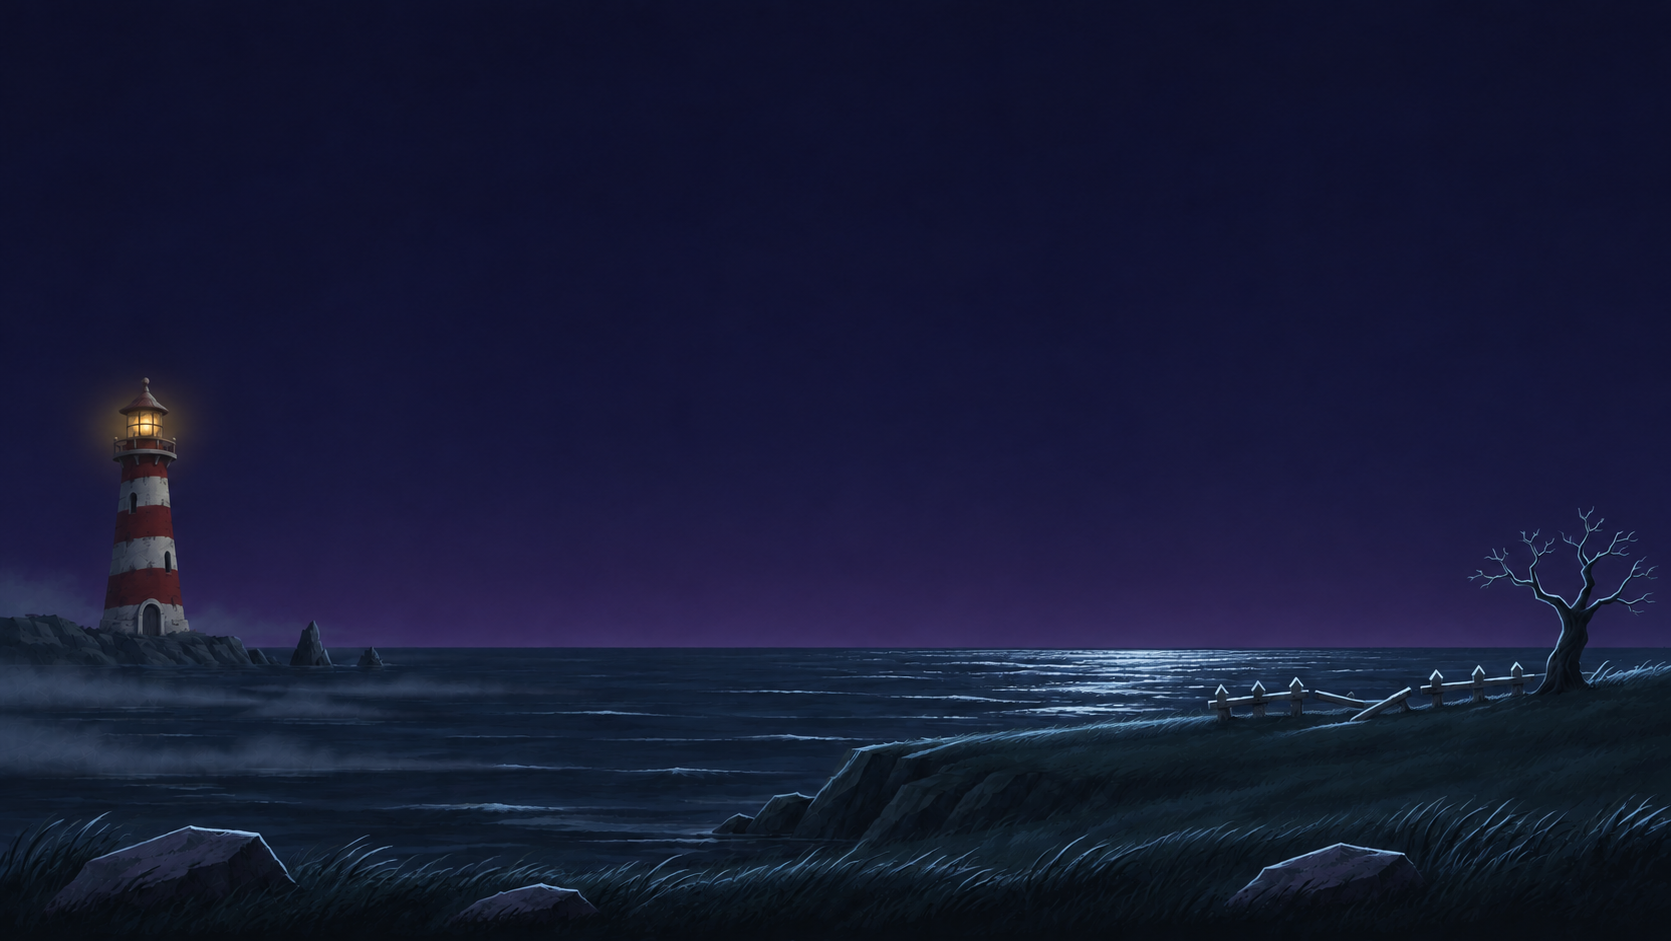
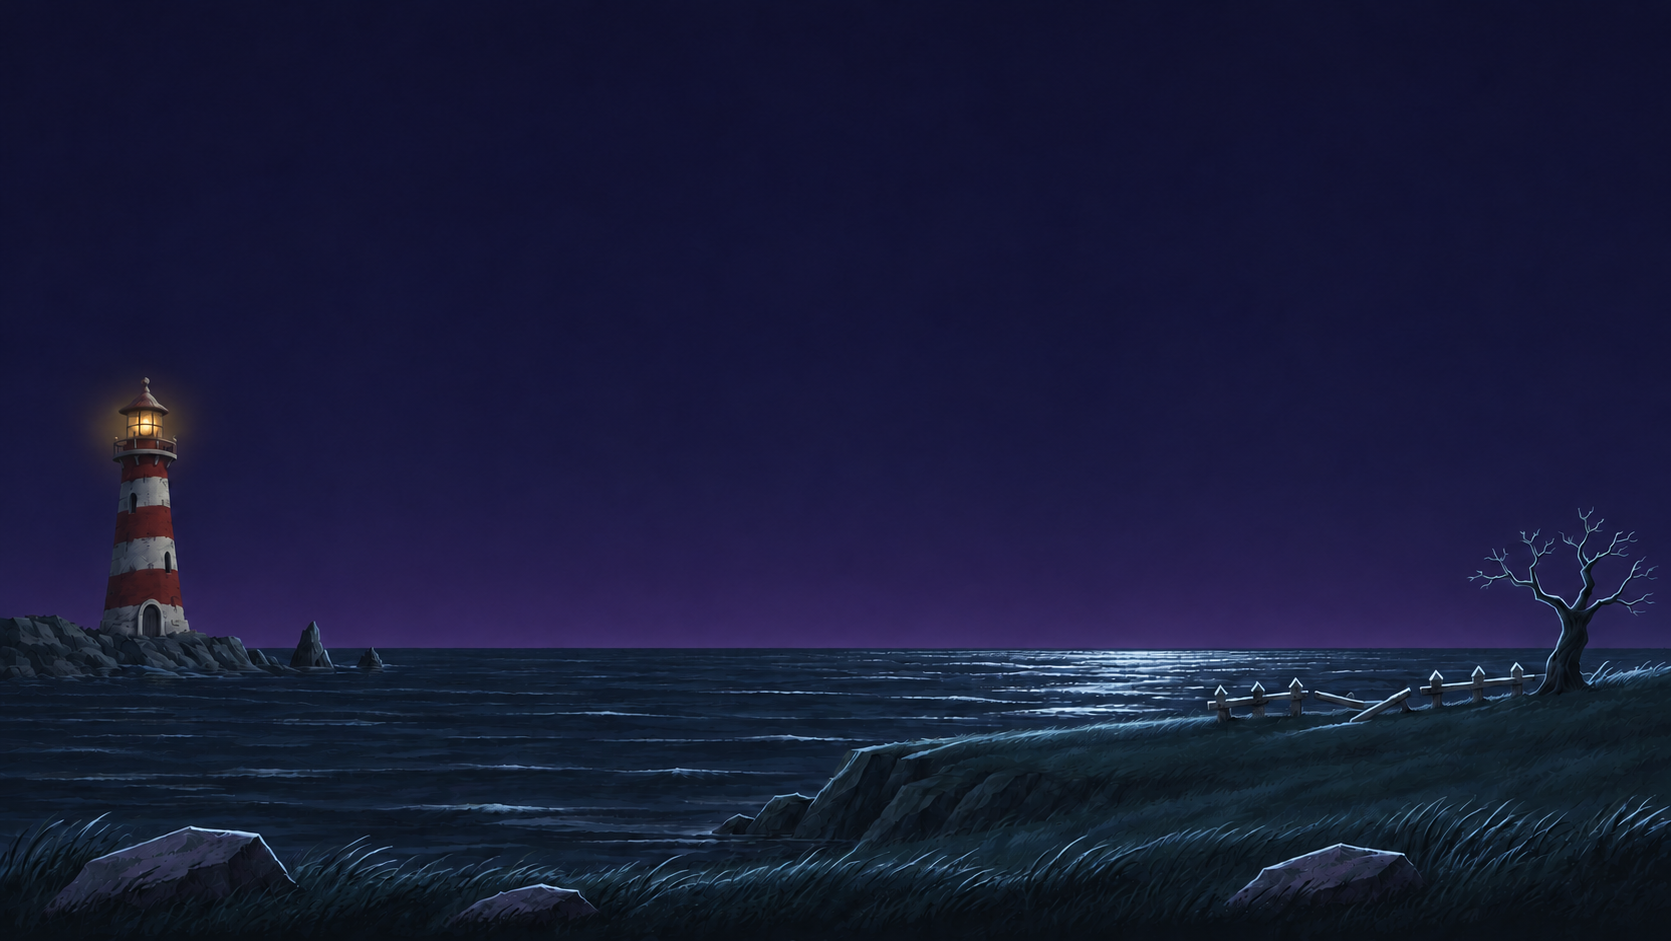
Launcher: drifting clouds and fog, and the lighthouse's turning light
- background.png without its painted fog; the fog and clouds are now sprites that drift slowly and
  wrap round the window (launcher/art: cloud1-3, fog1-3), replacing the drawn clouds. Clouds drift
  left high in the sky; two fog banks on the sea behind the house and one over the ground in front
  of it, breathing a little. Sizes, places and speeds are shares of the window size.
- The front fog is clipped out of the signs' outlines, so the planks stay clear. It is drawn in the
  scene, so it never takes the mouse.
- The lighthouse: a light cone (beam.png) from the lamp that turns once every 9 s, its length
  following the angle, mirrored to the left and dimmer when it points away; and a flare
  (flare.png) on the lamp that grows when the light faces the viewer. Both are behind the house
  and the front fog.
- Layer order: background, stars and moon, clouds, back fog, light, windows and house, lantern
  glow, front fog, signs and title.
- Scaled sprites are cached per window size and scale. With Windows' animation effects off (and in
  --shots) everything stands at one still moment.
- tools/launcher-art/sprites.py cuts the cloud and fog sprites from their sheets; beam.py makes the
  beam and flare.

diff --git a/launcher/MansionScene.cs b/launcher/MansionScene.cs
@@ -14,11 +14,11 @@ using Avalonia.Threading;
 
 namespace FrightWorks;
 
-// The launcher's main screen: a painted night coast (background.png) with stars, a moon, clouds and lightning, the
-// mansion (launcher/art, made by tools/launcher-art/make_mansion_v2.py) whose windows light up, draw their curtains
-// and show the odd silhouette, and the five signs that are the menu. The windows are holes in mansion.png: their
-// insides are drawn first, then the house on top. The signs are drawn over the ones painted in the picture
-// (mansion.json holds both outlines).
+// The launcher's main screen: a painted night coast (background.png) with stars, a moon, drifting clouds and fog, a
+// turning lighthouse light and lightning; the mansion (launcher/art, made by tools/launcher-art/make_mansion_v2.py)
+// whose windows light up, draw their curtains and show the odd silhouette; and the five signs painted on it that are
+// the menu. The windows are holes in mansion.png: their insides are drawn first, then the house on top. The launcher
+// writes the signs' labels on the painted planks (mansion.json holds the window boxes and the plank outlines).
 sealed class MansionScene : Control
 {
     public event Action<string>? SignClicked;
@@ -79,13 +79,11 @@ sealed class MansionScene : Control
         public Point NormalAt, HoverAt;
         public Geometry? Hit;
     }
-    sealed class Cloud { public RenderTargetBitmap Art = null!; public double X, Y, Speed; }
 
     const int ArtW = 1447, ArtH = 1087;
     readonly List<Win> windows = new();
     readonly Dictionary<string, Group> groups = new();
     readonly List<Sign> signs = new();
-    readonly List<Cloud> clouds = new();
     static readonly HashSet<string> CurtainGroups = new() { "parlor", "parlor_side", "right_arch", "right_tower", "tower" };
 
     double s = 1;
@@ -224,11 +222,6 @@ sealed class MansionScene : Control
             bolt = MakeBolt(rnd);
             nextStrike = t + 9 + rnd.NextDouble() * 14;
         }
-        foreach (var c in clouds)
-        {
-            c.X += c.Speed * dt;
-            if (c.X > W) c.X = -c.Art.Size.Width;
-        }
         InvalidateVisual();
     }
 
@@ -346,7 +339,7 @@ sealed class MansionScene : Control
         house = Layer(hw, hh, g => { if (HouseArt != null) g.DrawImage(HouseArt, new Rect(0, 0, hw, hh)); });
 
         BuildSky();
-        BuildClouds();
+        BuildDrift();
         BuildTitle();
         BuildLanternGlows();
         foreach (var sg in signs) BuildSign(sg);
@@ -389,7 +382,8 @@ sealed class MansionScene : Control
         sky?.Dispose();
         double w = Math.Max(1, W), h = Math.Max(1, H);
         // The painted coast covers the window, anchored bottom left so the lighthouse stays at the left edge.
-        double k = Math.Max(w / BackW, h / BackH), backTop = h - BackH * k;
+        double k = backK = Math.Max(w / BackW, h / BackH);
+        double backTop = this.backTop = h - BackH * k;
         sky = Layer(w, h, g =>
         {
             var all = new Rect(0, 0, w, h);
@@ -431,28 +425,119 @@ sealed class MansionScene : Control
         });
     }
 
-    void BuildClouds()
+    // ----- Clouds, fog and the lighthouse light -----
+    // Painted sprites (launcher/art) that drift sideways and wrap round the window, slowly: clouds high in the sky, a
+    // fog bank on the sea behind the house and one over the ground in front of it. Width and start x are shares of the
+    // window width; y is a share of the height from the top, from the horizon or from the bottom; speed is in px/s at
+    // 1180 wide (negative: to the left) and scales with the width. Fog breathes a little (opacity +-0.1 over 10 s).
+    enum From { Top, Horizon, Bottom }
+    sealed record Drift(Bitmap? Art, double Width, double StartX, From YFrom, double Y, double Opacity, double Speed, bool Breathes);
+    sealed class DriftLayer { public Drift Spec = null!; public RenderTargetBitmap Art = null!; public double Y; }
+
+    static readonly Bitmap? Cloud1 = Skin.LoadBitmap("cloud1.png"), Cloud2 = Skin.LoadBitmap("cloud2.png"),
+        Cloud3 = Skin.LoadBitmap("cloud3.png"), Fog1 = Skin.LoadBitmap("fog1.png"), Fog2 = Skin.LoadBitmap("fog2.png"),
+        Fog3 = Skin.LoadBitmap("fog3.png"), BeamArt = Skin.LoadBitmap("beam.png"), FlareArt = Skin.LoadBitmap("flare.png");
+    static readonly Drift[] CloudSpecs =
     {
-        foreach (var c in clouds) c.Art.Dispose();
-        clouds.Clear();
-        var r = new Random(11);
-        for (int i = 0; i < 6; i++)
+        new(Cloud1, 0.55, 0.28, From.Top, 0.03, 0.85, -6, false),
+        new(Cloud2, 0.38, -0.05, From.Top, 0.19, 0.80, -8, false),
+        new(Cloud3, 0.28, 0.62, From.Top, 0.30, 0.75, -10, false),
+    };
+    static readonly Drift[] BackFogSpecs =
+    {
+        new(Fog2, 0.75, -0.20, From.Horizon, -0.07, 0.55, 5, true),
+        new(Fog3, 0.70, 0.45, From.Horizon, -0.04, 0.45, -4, true),
+    };
+    static readonly Drift[] FrontFogSpecs = { new(Fog1, 0.95, -0.10, From.Bottom, -0.17, 0.50, 7, true) };
+    // The horizon in background.png, as a share of its height; the lamp's centre in its pixels.
+    const double Horizon = 0.69;
+    static readonly Point Lamp = new(146, 423);
+    // The still moment drawn without animations (and in --shots): the light an eighth of a turn round, toward the
+    // house, and the clouds and fog where they start.
+    const double StillTime = 9.0 / 8;
+    const double BeamTurn = 9;  // seconds per turn of the light
+
+    readonly List<DriftLayer> clouds = new(), backFog = new(), frontFog = new();
+    double backK = 1, backTop;
+    RenderTargetBitmap? beam, flare;
+    Geometry? frontFogClip;
+
+    void BuildDrift()
+    {
+        double w = Math.Max(1, W), h = Math.Max(1, H), horizon = backTop + BackH * Horizon * backK;
+        void Build(List<DriftLayer> list, Drift[] specs)
         {
-            double w = (int)((240 + r.Next(220)) * s), h = (int)((60 + r.Next(50)) * s);
-            if (w < 8 || h < 8) continue;
-            var art = Layer(w, h, g =>
+            foreach (var l in list) l.Art.Dispose();
+            list.Clear();
+            foreach (var d in specs)
             {
-                for (int k = 0; k < 9; k++)
-                {
-                    double pw = w * (0.3 + r.NextDouble() * 0.35), ph = h * (0.5 + r.NextDouble() * 0.5);
-                    double px = r.NextDouble() * (w - pw), py = h - ph - r.NextDouble() * (h - ph) * 0.6;
-                    g.DrawEllipse(new RadialGradientBrush
-                    {
-                        GradientStops = { new GradientStop(Skin.Argb(120, 58, 46, 88), 0), new GradientStop(Skin.Argb(0, 58, 46, 88), 1) },
-                    }, null, new Rect(px, py, pw, ph));
-                }
-            });
-            clouds.Add(new Cloud { Art = art, X = r.NextDouble() * W, Y = H * (0.02 + r.NextDouble() * 0.38), Speed = (4 + r.NextDouble() * 9) * Math.Max(0.5, s) });
+                if (d.Art is not { } art) continue;
+                double sw = Math.Max(1, Math.Round(d.Width * w)), sh = Math.Max(1, Math.Round(sw * art.PixelSize.Height / art.PixelSize.Width));
+                double y = d.YFrom switch { From.Top => d.Y * h, From.Horizon => horizon + d.Y * h, _ => h + d.Y * h };
+                list.Add(new DriftLayer { Spec = d, Art = Layer(sw, sh, g => g.DrawImage(art, new Rect(0, 0, sw, sh))), Y = Math.Round(y) });
+            }
+        }
+        Build(clouds, CloudSpecs);
+        Build(backFog, BackFogSpecs);
+        Build(frontFog, FrontFogSpecs);
+
+        // The light at its longest (0.8 of the width) and the flare at its biggest, scaled down as they turn.
+        beam?.Dispose();
+        flare?.Dispose();
+        beam = flare = null;
+        double bl = Math.Round(0.8 * w), bh = Math.Max(1, Math.Round(bl * 220 / 1400));
+        if (BeamArt is { } beamArt) beam = Layer(bl, bh, g => g.DrawImage(beamArt, new Rect(0, 0, bl, bh)));
+        double fs = Math.Max(1, Math.Ceiling(FlareSize(1, 1.06)));
+        if (FlareArt is { } flareArt) flare = Layer(fs, fs, g => g.DrawImage(flareArt, new Rect(0, 0, fs, fs)));
+
+        // The front fog never covers the signs (the painted planks): it is clipped out of their outlines.
+        var signShapes = new GeometryGroup();
+        foreach (var sg in signs) signShapes.Children.Add(Skin.Polygon(SignPoints(sg, 1)));
+        frontFogClip = new CombinedGeometry(GeometryCombineMode.Exclude, new RectangleGeometry(new Rect(0, 0, w, h)), signShapes);
+    }
+
+    // The flare's size for how much the light faces the viewer (0..1) and its flicker.
+    double FlareSize(double facing, double flicker) => (34 + 70 * Math.Pow(facing, 6)) * 1.6 * backK * flicker;
+
+    void DrawDrift(DrawingContext g, List<DriftLayer> list, double t)
+    {
+        double w = Math.Max(1, W);
+        for (int i = 0; i < list.Count; i++)
+        {
+            var l = list[i];
+            double sw = l.Art.Size.Width, period = w + sw;
+            double x = l.Spec.StartX * w + l.Spec.Speed * (w / 1180) * t;
+            x = ((x + sw) % period + period) % period - sw;
+            double opacity = l.Spec.Opacity + (l.Spec.Breathes ? 0.1 * Math.Sin(t * Math.Tau / 10 + i * 2.1) : 0);
+            using (g.PushOpacity(Math.Clamp(opacity, 0, 1)))
+                DrawLayer(g, l.Art, new Point(Math.Round(x), l.Y));
+        }
+    }
+
+    // The lighthouse's turning light: a cone from the lamp, its length cos(angle) of the longest (mirrored to the left
+    // when it points away from the house), dimmer on the far side where the tower hides part of it; and a flare on the
+    // lamp that grows when the light faces the viewer. Both are behind the house and the front fog.
+    void DrawLighthouse(DrawingContext g, double t)
+    {
+        double angle = t / BeamTurn * Math.Tau, c = Math.Cos(angle), sn = Math.Sin(angle);
+        var lamp = new Point(Lamp.X * backK, backTop + Lamp.Y * backK);
+        if (beam != null && Math.Abs(c) * beam.Size.Width >= 6)
+        {
+            double len = Math.Abs(c) * beam.Size.Width, bh = beam.Size.Height;
+            var src = new Rect(0, 0, beam.PixelSize.Width, beam.PixelSize.Height);
+            var dest = new Rect(lamp.X, lamp.Y - bh / 2, len, bh);
+            var mirror = c < 0 ? new Matrix(-1, 0, 0, 1, 2 * lamp.X, 0) : Matrix.Identity;
+            using (g.PushOpacity(sn >= 0 ? 0.75 : 0.45))
+            using (g.PushTransform(mirror))
+                g.DrawImage(beam, src, dest);
+        }
+        if (flare != null)
+        {
+            double facing = Math.Max(0, sn), flicker = 1 + 0.06 * Math.Sin(t * 13.1) * Math.Sin(t * 7.3);
+            double size = FlareSize(facing, flicker);
+            using (g.PushOpacity(0.7 + 0.3 * facing))
+                g.DrawImage(flare, new Rect(0, 0, flare.PixelSize.Width, flare.PixelSize.Height),
+                            new Rect(lamp.X - size / 2, lamp.Y - size / 2, size, size));
         }
     }
 
@@ -571,7 +656,10 @@ sealed class MansionScene : Control
         var all = new Rect(Bounds.Size);
 
         DrawLayer(g, sky!, default);
-        foreach (var c in clouds) DrawLayer(g, c.Art, new Point((int)c.X, (int)c.Y));
+        double still = animate ? t : StillTime;  // the drift and the lighthouse stand still without animations
+        DrawDrift(g, clouds, still);
+        DrawDrift(g, backFog, still);
+        DrawLighthouse(g, still);
         if (flash > 0)
         {
             g.FillRectangle(Skin.Brush(Skin.Argb((int)(120 * flash), 196, 186, 255)), all);
@@ -605,6 +693,9 @@ sealed class MansionScene : Control
             using (g.PushOpacityMask(new ImageBrush(house) { Stretch = Stretch.Fill }, houseRect))
                 g.FillRectangle(Skin.Brush(Skin.Argb((int)(255 * 0.3 * flash), 217, 217, 255)), houseRect);
         }
+        if (frontFogClip != null)
+            using (g.PushGeometryClip(frontFogClip))
+                DrawDrift(g, frontFog, still);
 
         foreach (var sg in signs)
         {

diff --git a/tools/launcher-art/sprites.py b/tools/launcher-art/sprites.py
@@ -1,0 +1,77 @@
+"""Cut drifting fog / cloud sprites out of a sheet.
+
+    python tools/launcher-art/sprites.py fog   <sheet on black.png> <out_dir> <prefix>
+    python tools/launcher-art/sprites.py cloud <sheet on green.png> <out_dir> <prefix>
+
+fog:   brightness becomes alpha (soft mist), coloured a pale cool grey-blue.
+cloud: the flat green is keyed out (with spill removed), the painted colours stay.
+The sheet is split into horizontal bands at empty rows; each band is trimmed to its content with a small margin.
+"""
+import os
+import sys
+
+import numpy as np
+from PIL import Image, ImageFilter
+
+mode, src, out, prefix = sys.argv[1:5]
+os.makedirs(out, exist_ok=True)
+a = np.asarray(Image.open(src).convert("RGB")).astype(np.float32)
+r, g, b = a[..., 0], a[..., 1], a[..., 2]
+
+if mode == "fog":
+    lum = r * 0.299 + g * 0.587 + b * 0.114
+    peak = np.percentile(lum, 99.7)
+    alpha = np.clip((lum - 8) / max(1.0, peak - 8), 0, 1) ** 1.15 * 0.9
+    colour = np.array([206.0, 216.0, 232.0])
+    rgb = np.broadcast_to(colour, a.shape).copy()
+elif mode == "wisp":  # painted wisps on black: brightness becomes alpha, the colour is un-premultiplied
+    lum = np.maximum(np.maximum(r, g), b)
+    peak = np.percentile(lum, 99.7)
+    alpha = np.clip((lum - 10) / max(1.0, peak - 10), 0, 1) ** 1.1 * 0.92
+    rgb = np.clip(a / np.maximum(lum, 1)[..., None] * peak, 0, 255)  # the hue at full strength
+else:
+    excess = g - np.maximum(r, b)
+    alpha = 1 - np.clip((excess - 4) / 70.0, 0, 1)
+    rgb = a.copy()
+    rgb[..., 1] = np.minimum(g, np.minimum(r, b) + 4)  # the clouds have no green: clamp all spill out
+    alpha = np.asarray(Image.fromarray((alpha * 255).astype(np.uint8)).filter(ImageFilter.MinFilter(5)).filter(
+        ImageFilter.GaussianBlur(1.1))).astype(np.float32) / 255  # pull the edge in a pixel, soften
+
+rows = (alpha > 0.04).sum(axis=1) > 3
+bands, y = [], 0
+while y < len(rows):
+    if rows[y]:
+        y0 = y
+        while y < len(rows) and rows[y]:
+            y += 1
+        if y - y0 > 12:
+            bands.append((y0, y))
+    else:
+        y += 1
+# merge bands separated by tiny gaps
+merged = []
+for bnd in bands:
+    if merged and bnd[0] - merged[-1][1] < 6:
+        merged[-1] = (merged[-1][0], bnd[1])
+    else:
+        merged.append(bnd)
+
+for i, (y0, y1) in enumerate(merged, 1):
+    sub = alpha[y0:y1]
+    cols = np.nonzero((sub > 0.04).sum(axis=0) > 2)[0]
+    x0, x1 = max(0, cols[0] - 6), min(a.shape[1], cols[-1] + 7)
+    y0p, y1p = max(0, y0 - 6), min(a.shape[0], y1 + 6)
+    sprite = np.dstack([rgb[y0p:y1p, x0:x1], alpha[y0p:y1p, x0:x1] * 255]).clip(0, 255).astype(np.uint8)
+    # nothing may touch the sprite edge: fade the outermost 4 px
+    h, w = sprite.shape[:2]
+    ramp = np.ones((h, w), np.float32)
+    for k in range(4):
+        f = (k + 1) / 5
+        ramp[k, :] = np.minimum(ramp[k, :], f)
+        ramp[h - 1 - k, :] = np.minimum(ramp[h - 1 - k, :], f)
+        ramp[:, k] = np.minimum(ramp[:, k], f)
+        ramp[:, w - 1 - k] = np.minimum(ramp[:, w - 1 - k], f)
+    sprite[..., 3] = (sprite[..., 3] * ramp).astype(np.uint8)
+    path = os.path.join(out, f"{prefix}{i}.png")
+    Image.fromarray(sprite, "RGBA").save(path, optimize=True)
+    print(path, f"{w}x{h}")

diff --git a/tools/launcher-art/beam.py b/tools/launcher-art/beam.py
@@ -1,0 +1,36 @@
+"""Lighthouse light sprites, made procedurally.
+
+    python tools/launcher-art/beam.py <out_dir>
+
+beam.png  : 1400x220. A soft cone of light with its tip at the left middle (0,110), widening and fading out to the
+            right. The code stretches it horizontally by cos(angle) (flipped for the left side) as the light turns.
+flare.png : 256x256 radial glow, centred, for the lamp itself (pulses, and flares when the beam faces the viewer).
+"""
+import os
+import sys
+
+import numpy as np
+from PIL import Image
+
+out = sys.argv[1]
+os.makedirs(out, exist_ok=True)
+col = np.array([255.0, 236.0, 178.0])
+
+W, H = 1400, 220
+x = np.arange(W, dtype=np.float32)[None, :]
+y = np.arange(H, dtype=np.float32)[:, None] - H / 2
+half = 7 + (H / 2 - 14) * (x / W) ** 0.6  # the cone's half-width at each x
+across = np.exp(-((y / half) ** 2) * 2.2)  # soft edges across the beam
+along = np.exp(-x / 700) * np.clip(x / 18, 0, 1) ** 0.5  # fades with distance; no hard tip
+alpha = across * along
+alpha[:, -120:] *= np.linspace(1, 0, 120)[None, :] ** 1.5  # never a hard end
+rgb = np.broadcast_to(col, (H, W, 3))
+Image.fromarray(np.dstack([rgb, alpha * 255]).clip(0, 255).astype(np.uint8), "RGBA").save(os.path.join(out, "beam.png"), optimize=True)
+
+S = 256
+yy, xx = np.mgrid[0:S, 0:S].astype(np.float32) - (S - 1) / 2
+r = np.hypot(xx, yy) / (S / 2)
+a = np.clip(np.exp(-(r ** 2) * 5) * 1.0 + np.exp(-(r ** 2) * 40) * 0.8, 0, 1) * np.clip((1 - r) * 4, 0, 1)
+fl = np.dstack([np.broadcast_to(col, (S, S, 3)), a * 255]).clip(0, 255).astype(np.uint8)
+Image.fromarray(fl, "RGBA").save(os.path.join(out, "flare.png"), optimize=True)
+print("beam.png 1400x220, flare.png 256x256")
